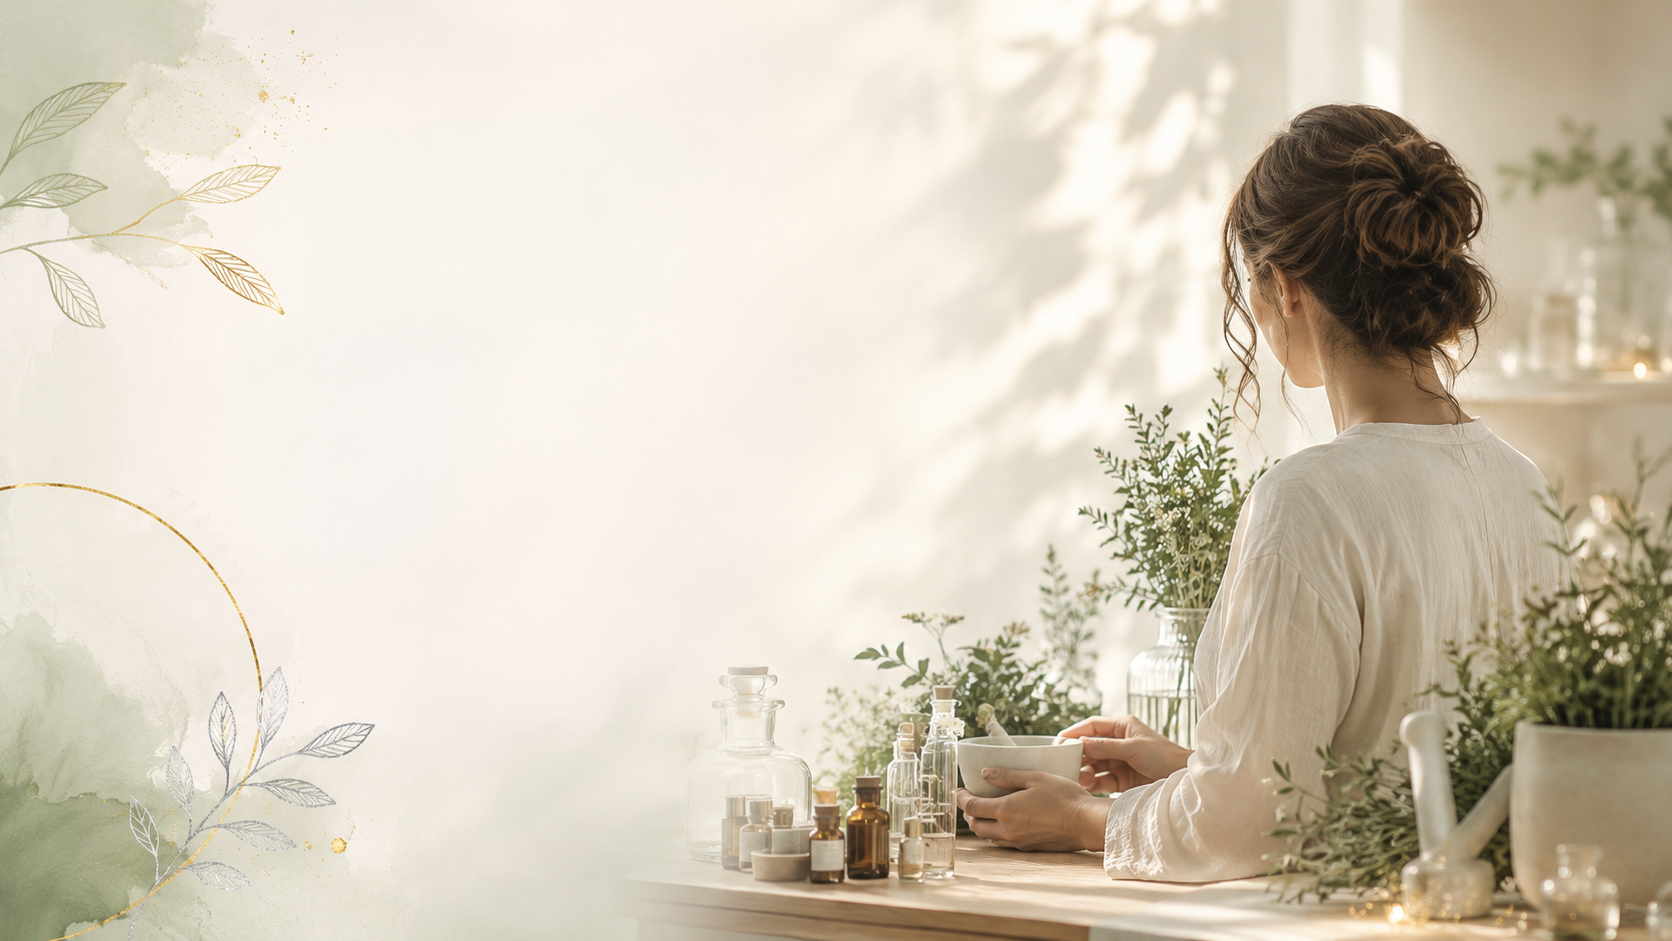
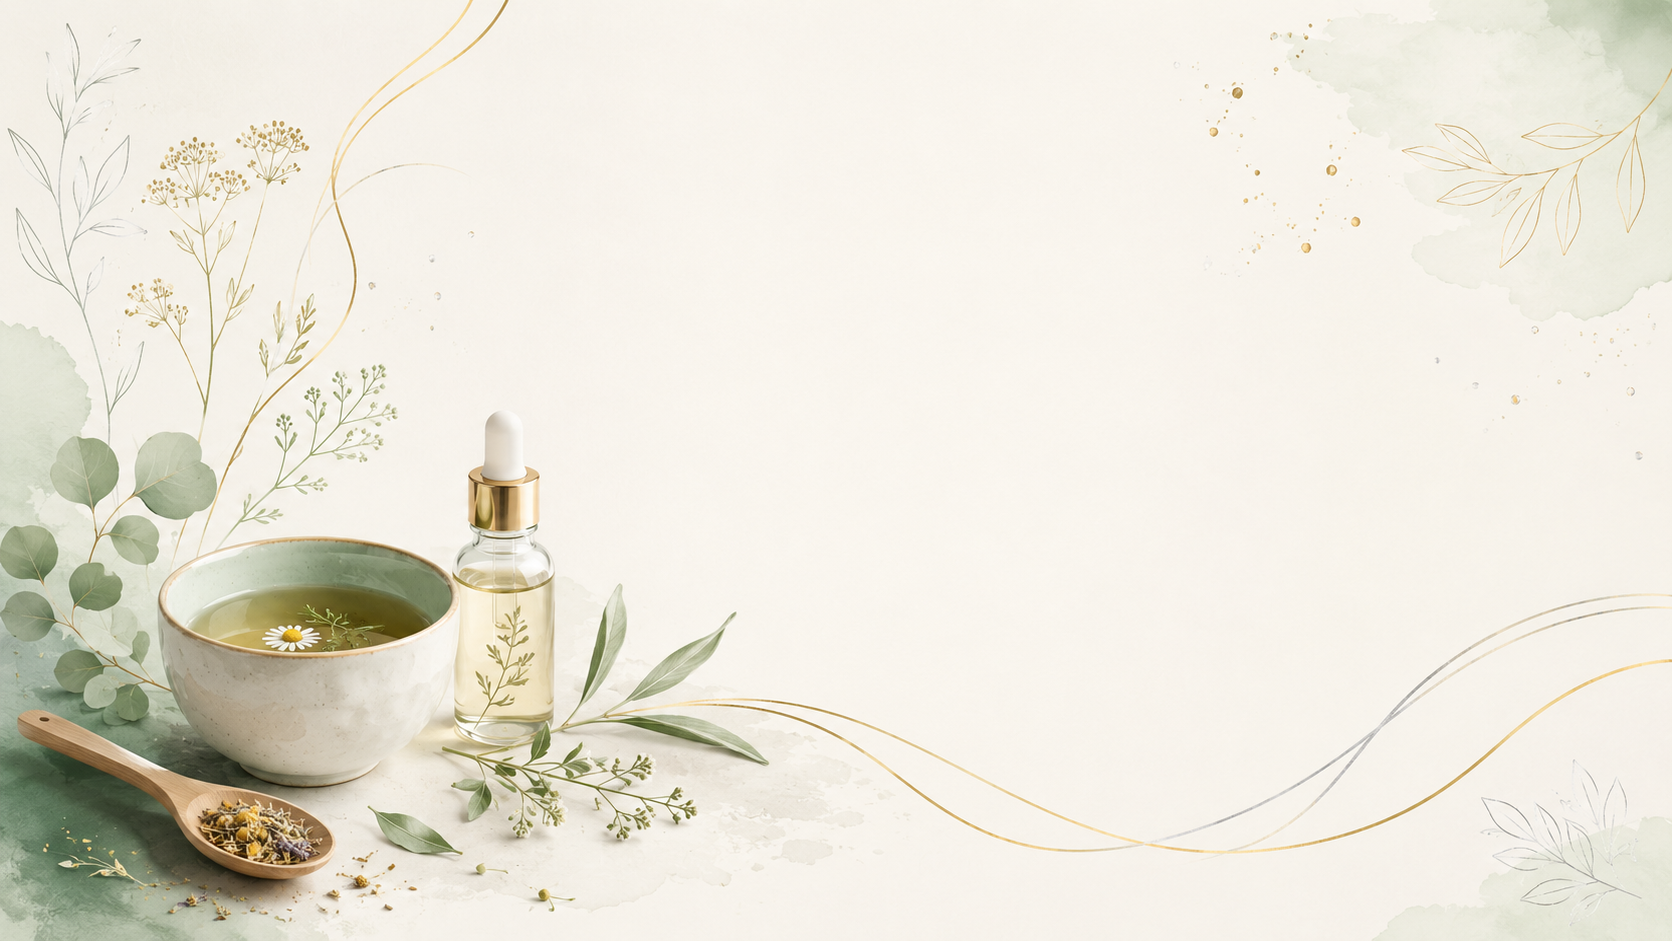
Hero votre-naturopathe : nouvelle image, titre repassé à droite
- Nouvelle image (objets à gauche cette fois)
- Titre déplacé à droite (md:ml-auto md:text-right) pour profiter de
  la zone claire, à l'opposé des objets
- Gradient cream inversé (bg-gradient-to-l) : assombrit légèrement
  le côté droit pour la lisibilité, transparent à gauche

diff --git a/src/app/votre-naturopathe/page.tsx b/src/app/votre-naturopathe/page.tsx
@@ -10,7 +10,7 @@ export const metadata: Metadata = {
 export default function VotreNaturopathe() {
   return (
     <>
-      {/* HERO avec photo (femme à droite), titre à gauche sur la zone claire */}
+      {/* HERO avec photo (objets à gauche), titre à droite sur la zone claire */}
       <section className="relative h-[40vh] min-h-[280px] md:h-[50vh] md:min-h-[340px] max-h-[460px] flex items-center overflow-hidden bg-background">
         <div
           className="absolute inset-0 bg-contain bg-center bg-no-repeat"
@@ -18,12 +18,12 @@ export default function VotreNaturopathe() {
             backgroundImage: "url('/hero-naturopathe.png')",
           }}
         />
-        {/* Léger calque cream à gauche pour renforcer la lisibilité du titre,
-            transparent à droite pour ne pas gâcher la photo */}
-        <div className="absolute inset-0 bg-gradient-to-r from-background/50 via-background/15 to-transparent" />
+        {/* Léger calque cream à droite pour renforcer la lisibilité du titre,
+            transparent à gauche pour ne pas gâcher la photo */}
+        <div className="absolute inset-0 bg-gradient-to-l from-background/50 via-background/15 to-transparent" />
 
         <div className="relative z-10 w-full max-w-7xl mx-auto px-6 md:px-12">
-          <div className="max-w-sm md:max-w-md">
+          <div className="md:ml-auto max-w-sm md:max-w-md md:text-right">
             <p className="text-[10px] md:text-xs tracking-[0.5em] uppercase mb-4 text-primary-dark font-medium">
               Votre naturopathe
             </p>
